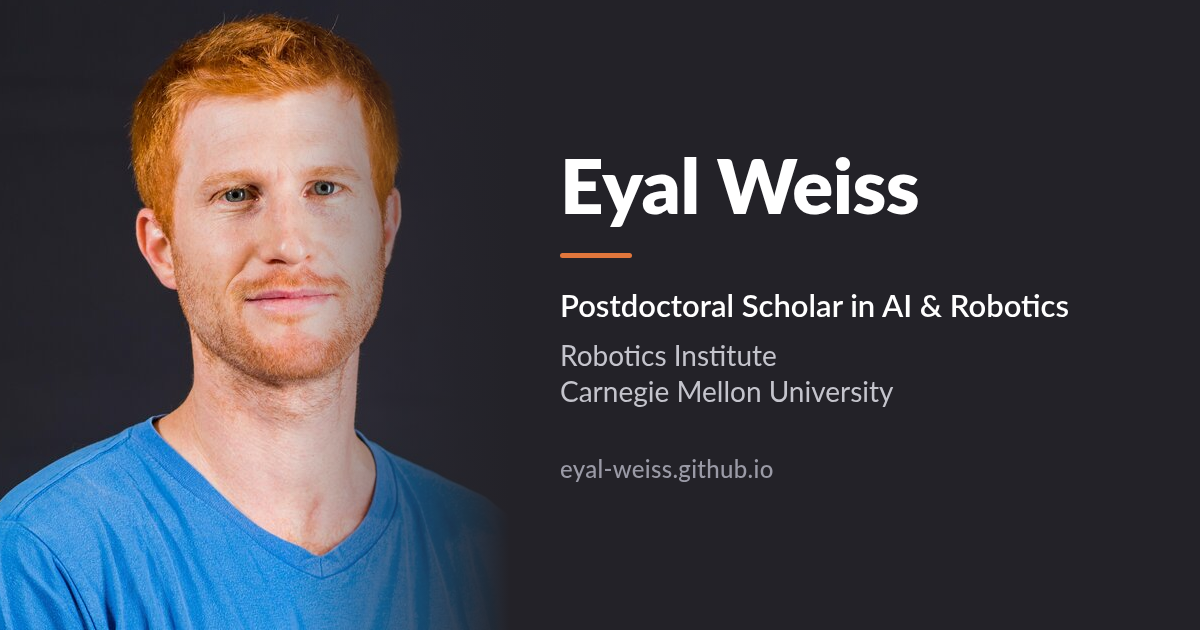
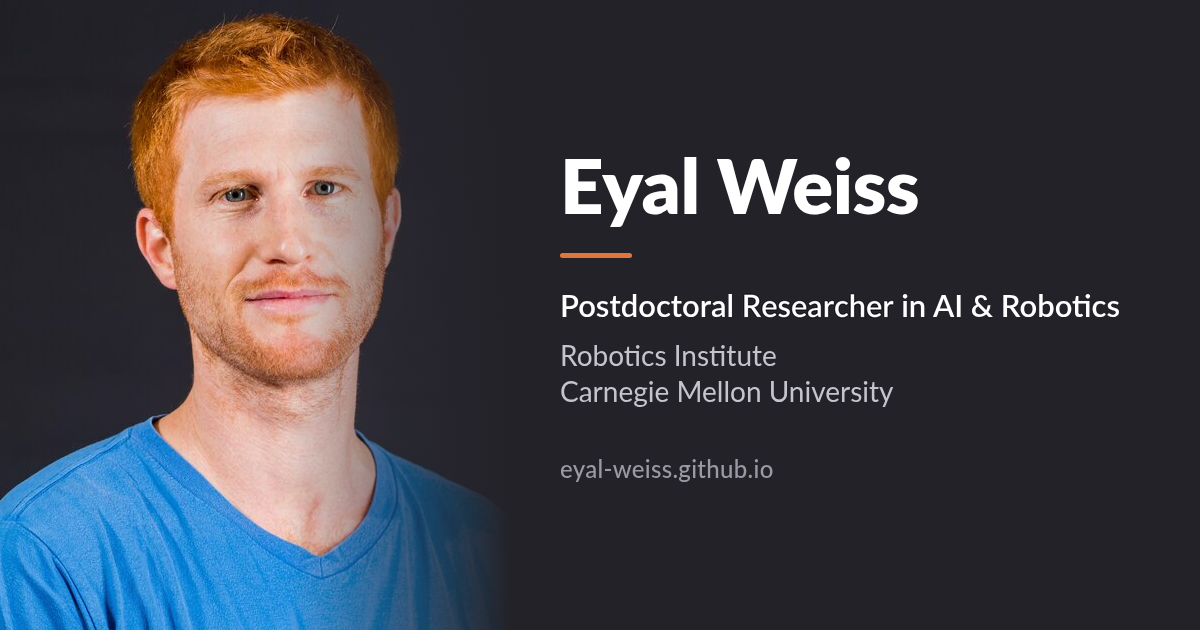
Use "Postdoctoral Researcher" for the CMU title
Site description, home subtitle, link-preview image and repo notes
now match the CMU title used in the CV, schema and profiles.

Claude-Session: https://claude.ai/code/session_01ESwGZmdr1bRxiMdtC1bDvk

Changed region(s): [[0.6167, 0.4524, 0.9558, 0.5127]]

diff --git a/CLAUDE.md b/CLAUDE.md
@@ -4,7 +4,7 @@ This file provides guidance to Claude Code (claude.ai/code) when working with co
 
 ## Site Overview
 
-Personal academic website for Eyal Weiss (postdoctoral scholar, AI & Robotics, Robotics Institute, Carnegie Mellon University). Built with Hugo and the PaperMod theme, deployed to GitHub Pages via GitHub Actions.
+Personal academic website for Eyal Weiss (postdoctoral researcher, AI & Robotics, Robotics Institute, Carnegie Mellon University). Built with Hugo and the PaperMod theme, deployed to GitHub Pages via GitHub Actions.
 
 ## Build & Development
 
